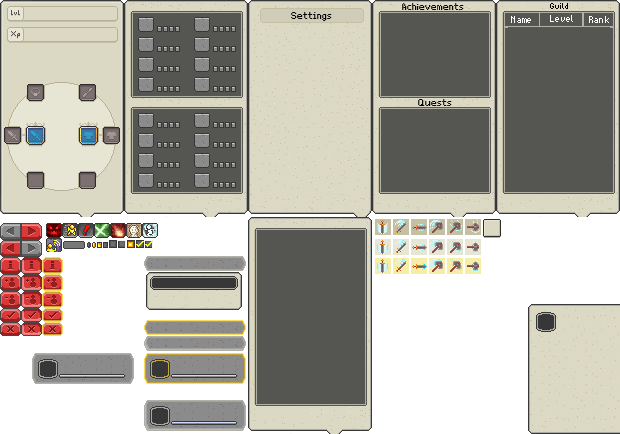
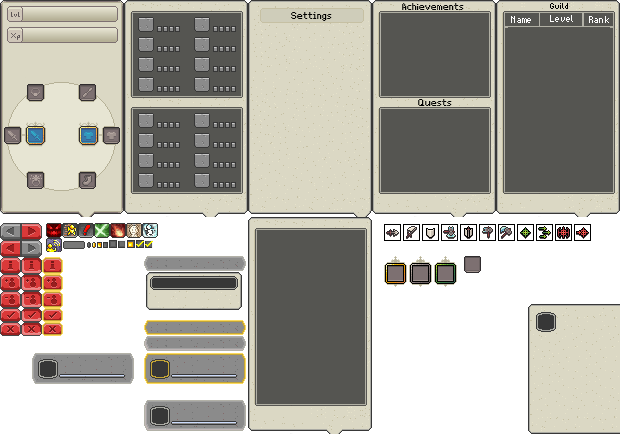
feat(client): attack style UI update
Former-commit-id: db5b3d78f1efc6011a3165a4249a74d8e8c52615

Changed region(s): [[0.0, 0.0, 0.2145, 0.5092], [0.5823, 0.4793, 0.95, 0.659], [0.1226, 0.3894, 0.1532, 0.4194]]

diff --git a/packages/client/scss/game/impl/_profile.scss b/packages/client/scss/game/impl/_profile.scss
@@ -205,6 +205,11 @@
             background: url('/img/#{$i}/characterdialogsheet.png') -21px * $i -257px * $i;
         }
 
+        .slot-background {
+            z-index: -1;
+            background: url('/img/#{$i}/characterdialogsheet.png') -464px * $i -256px * $i;
+        }
+
         .weapon-slot {
             top: 128px * $i;
             left: 4px * $i;
@@ -596,57 +601,73 @@
         }
 
         #attack-style-list {
-            margin-top: 48px * $i;
+            margin-top: 46px * $i;
         }
 
         .attack-style-box {
-            width: 18px * $i;
-            height: 19px * $i;
-            background: url('/img/#{$i}/characterdialogsheet.png') no-repeat -483px * $i -219px * $i; 
-        }
+            width: 23px * $i;
+            height: 31px * $i;
+            background: url('/img/#{$i}/characterdialogsheet.png') no-repeat -409px * $i -256px * $i; 
 
-        .attack-style {
-            width: 16px * $i;
-            height: 16px * $i;
-            margin-top: 1px * $i;
-            margin-left: 1px * $i;
-        }
-
-        .attack-style-stab {
-            background: url('/img/#{$i}/characterdialogsheet.png') no-repeat -375px * $i -239px * $i;
-        }
-
-        .attack-style-slash {
-            background: url('/img/#{$i}/characterdialogsheet.png') no-repeat -393px * $i -239px * $i;
-        }
-
-        .attack-style-defensive,
-        .attack-style-shared {
-            background: url('/img/#{$i}/characterdialogsheet.png') no-repeat -411px * $i -239px * $i;
-        }
-
-        .attack-style-hack {
-            background: url('/img/#{$i}/characterdialogsheet.png') no-repeat -429px * $i -239px * $i;
-        }
-
-        .attack-style-chop {
-            background: url('/img/#{$i}/characterdialogsheet.png') no-repeat -447px * $i -239px * $i;
-        }
-
-        .attack-style-stab,
-        .attack-style-slash,
-        .attack-style-defensive,
-        .attack-style-hack,
-        .attack-style-chop {
             &:hover {
-                background-position-y: -258px * $i;
+                background-position-x: -384px * $i;
             }
 
             &:active, &.active {
-                background-position-y: -219px * $i;
+                background-position-x: -434px * $i;
             }
         }
 
+        .attack-style {
+            width: 17px * $i;
+            height: 17px * $i;
+            margin-top: 9px * $i;
+            margin-left: 3px * $i;
+        }
+
+        .attack-style-stab {
+            background: url('/img/#{$i}/characterdialogsheet.png') no-repeat -384px * $i -224px * $i;
+        }
+
+        .attack-style-slash {
+            background: url('/img/#{$i}/characterdialogsheet.png') no-repeat -403px * $i -224px * $i;
+        }
+
+        .attack-style-defensive {
+            background: url('/img/#{$i}/characterdialogsheet.png') no-repeat -422px * $i -224px * $i;
+        }
+
+        .attack-style-crush {
+            background: url('/img/#{$i}/characterdialogsheet.png') no-repeat -441px * $i -224px * $i;
+        }
+
+        .attack-style-shared {
+            background: url('/img/#{$i}/characterdialogsheet.png') no-repeat -460px * $i -224px * $i;
+        }
+
+        .attack-style-hack {
+            background: url('/img/#{$i}/characterdialogsheet.png') no-repeat -479px * $i -224px * $i;
+        }
+
+        .attack-style-chop {
+            background: url('/img/#{$i}/characterdialogsheet.png') no-repeat -498px * $i -224px * $i;
+        }
+
+        .attack-style-accurate {
+            background: url('/img/#{$i}/characterdialogsheet.png') no-repeat -517px * $i -224px * $i;
+        }
+
+        .attack-style-fast {
+            background: url('/img/#{$i}/characterdialogsheet.png') no-repeat -536px * $i -224px * $i;
+        }
+
+        .attack-style-focused {
+            background: url('/img/#{$i}/characterdialogsheet.png') no-repeat -555px * $i -224px * $i;
+        }
+
+        .attack-style-longrange {
+            background: url('/img/#{$i}/characterdialogsheet.png') no-repeat -574px * $i -224px * $i;
+        }
     }
 }
 

diff --git a/packages/client/src/menu/profile/impl/state.ts b/packages/client/src/menu/profile/impl/state.ts
@@ -119,7 +119,7 @@ export default class State extends Menu {
         );
 
         // If the style is the same as the player's current style, we add the active class.
-        if (style === this.player.getWeapon().attackStyle) image.classList.add('active');
+        if (style === this.player.getWeapon().attackStyle) element.classList.add('active');
 
         // Append the image onto the list element.
         element.append(image);
